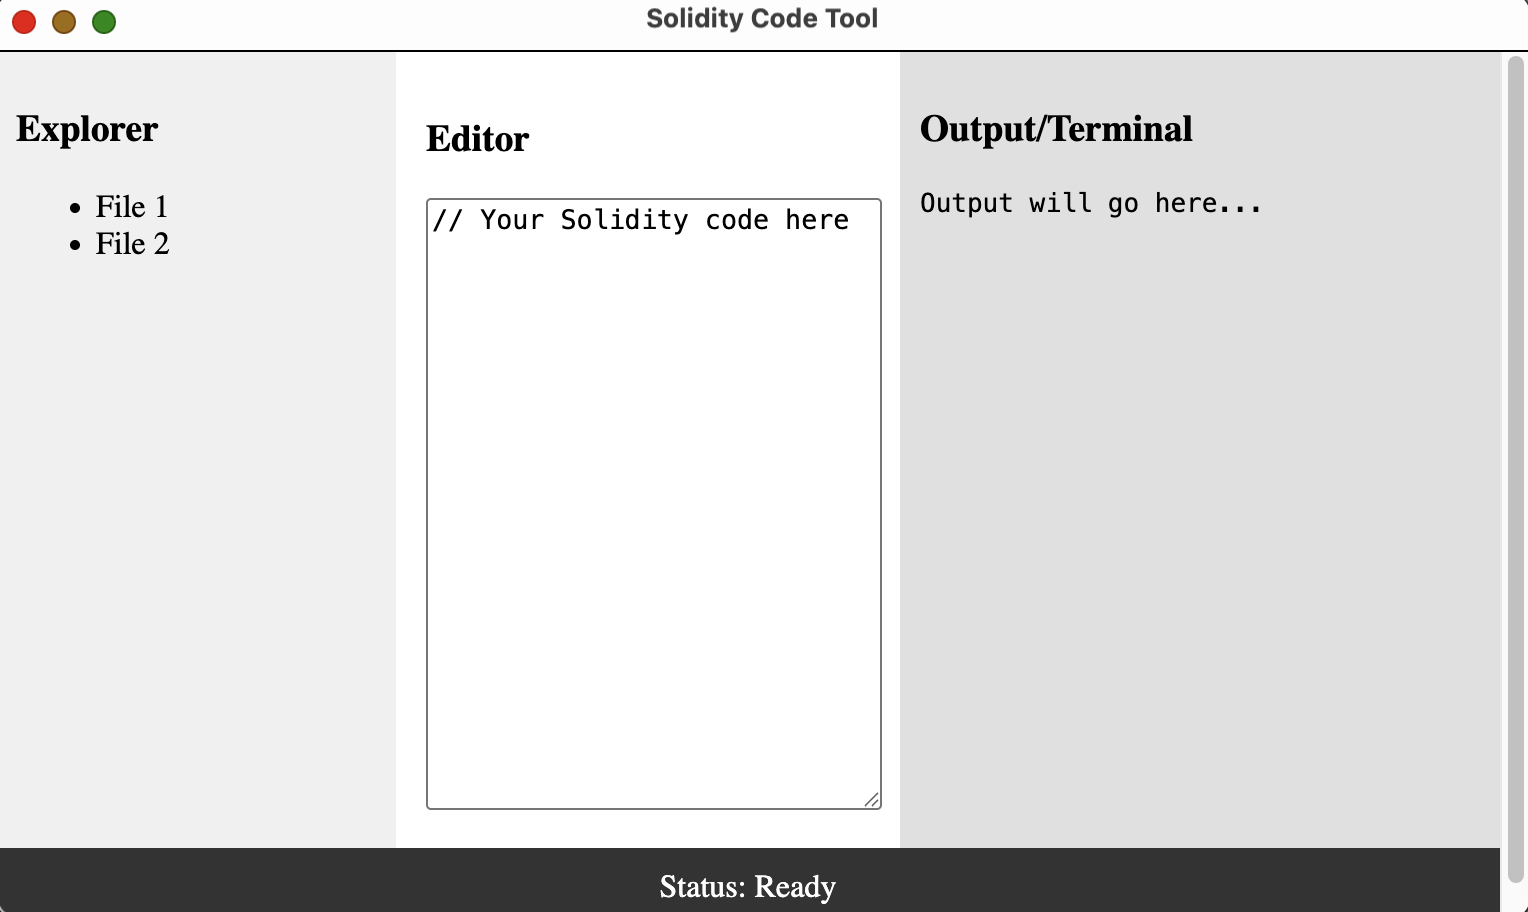
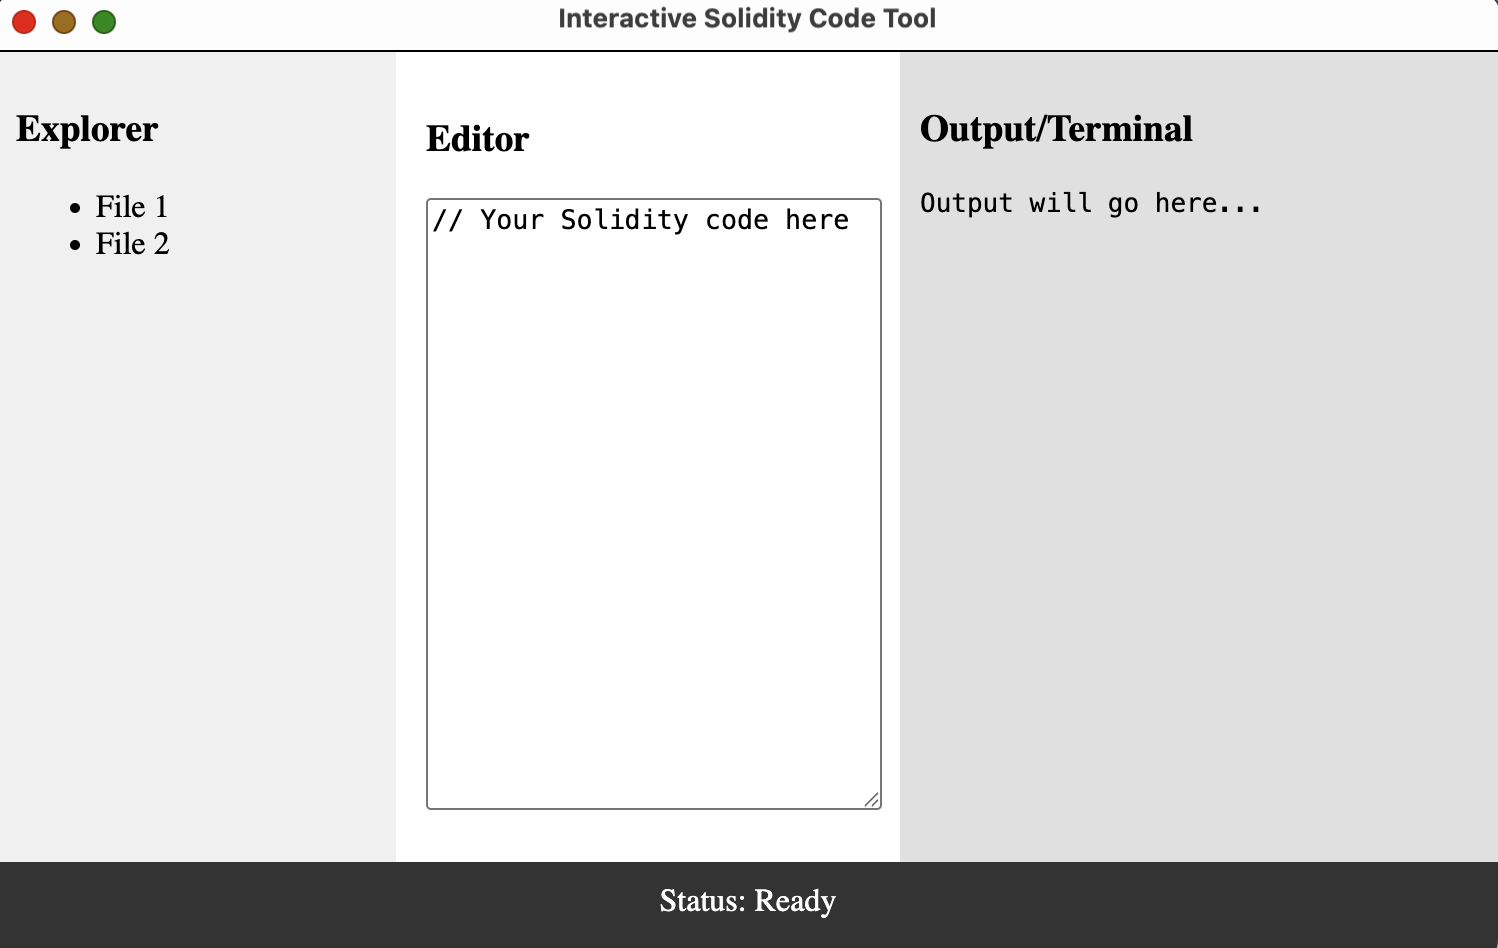
Minor change

Changed region(s): [[0.0, 0.0, 1.0, 1.0], [0.0307, 0.1842, 0.1228, 0.2763], [0.0, 0.1228, 0.1228, 0.1535]]

diff --git a/final_project/keruch-tool/ai-solidity-ide/index.html b/final_project/keruch-tool/ai-solidity-ide/index.html
@@ -2,7 +2,7 @@
 <html>
 <head>
           <meta charset="UTF-8">
-          <title>Solidity Code Tool</title>
+          <title>Interactive Solidity Code Tool</title>
           <style>
             body {
               margin: 0;
